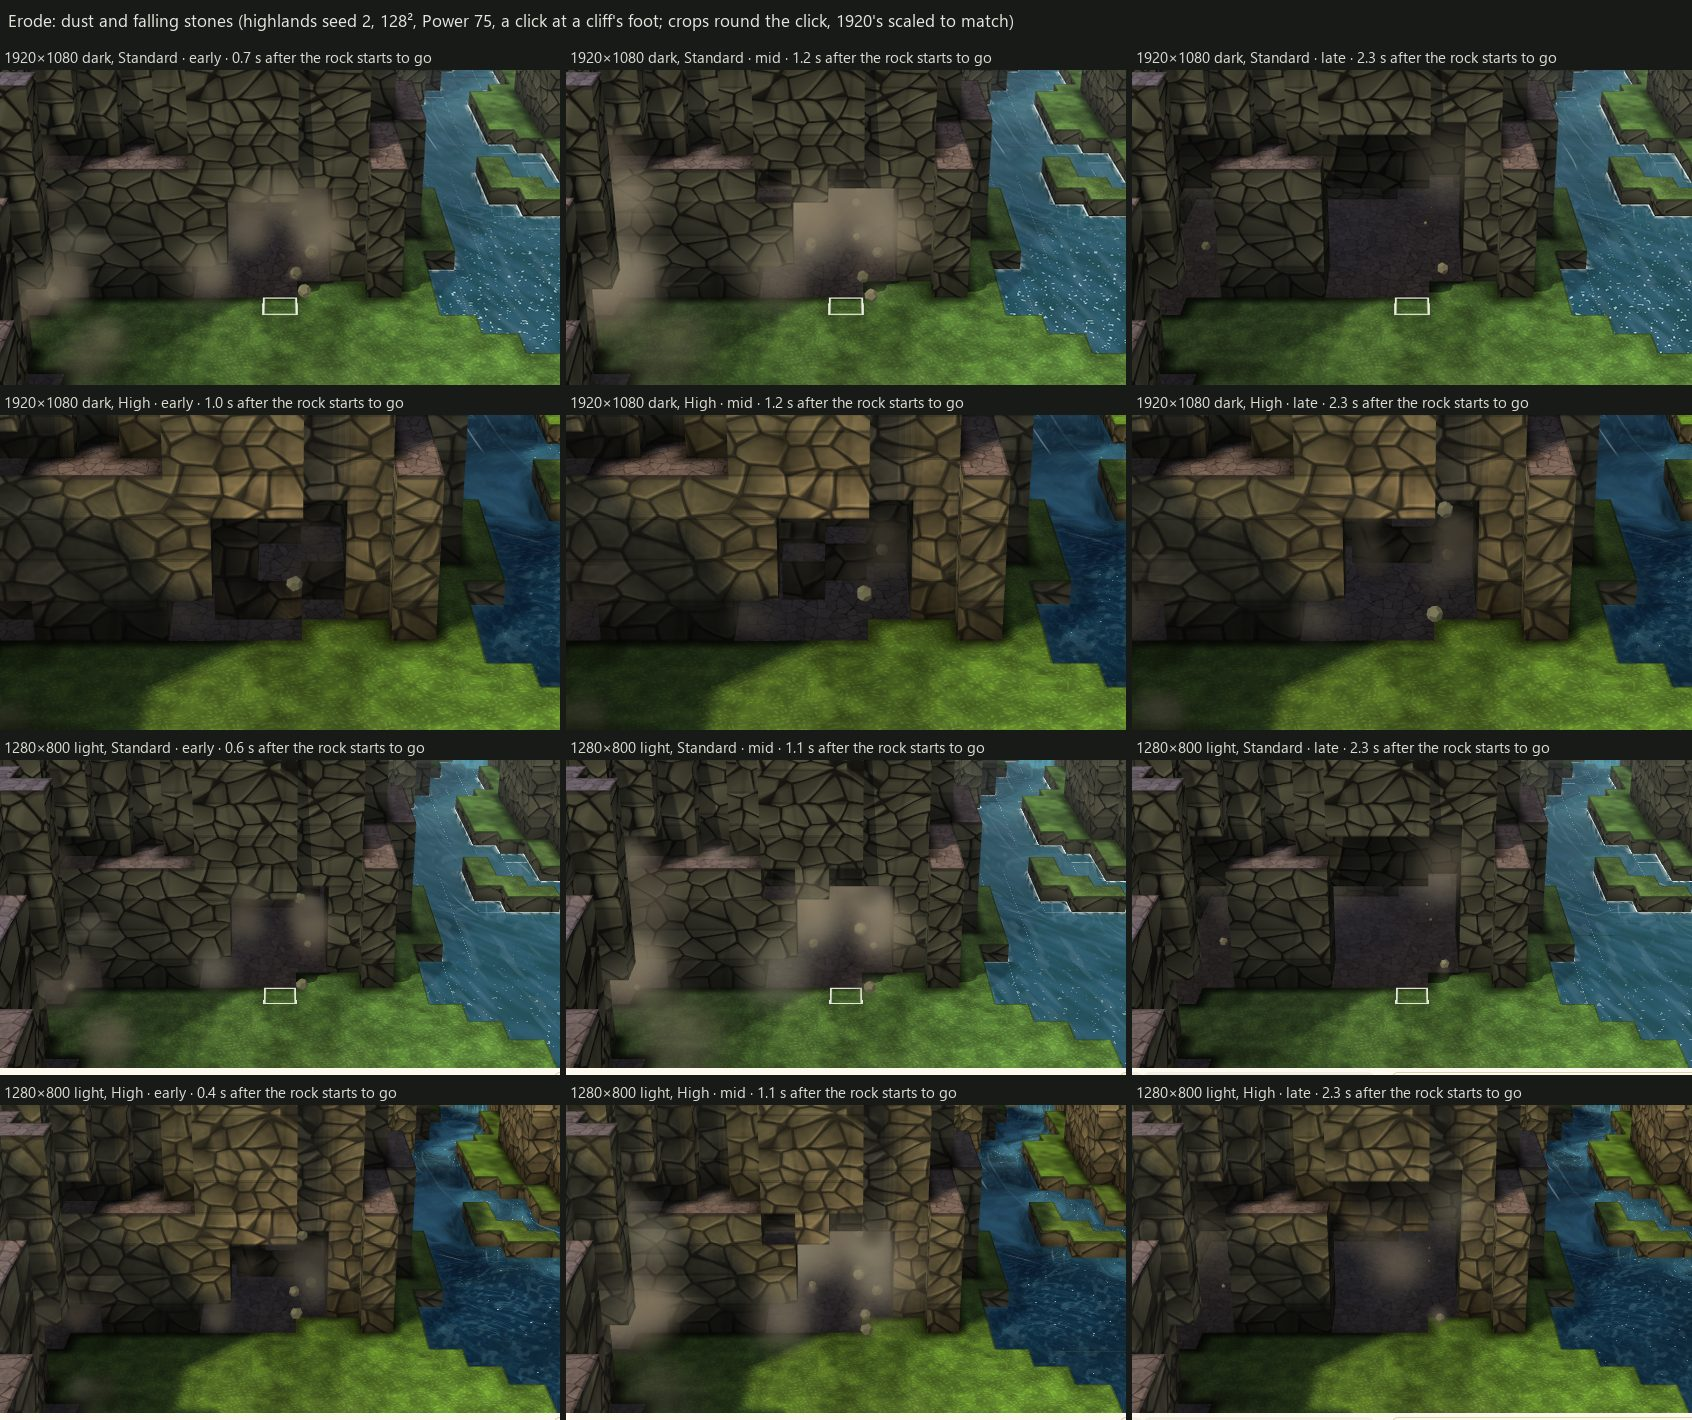
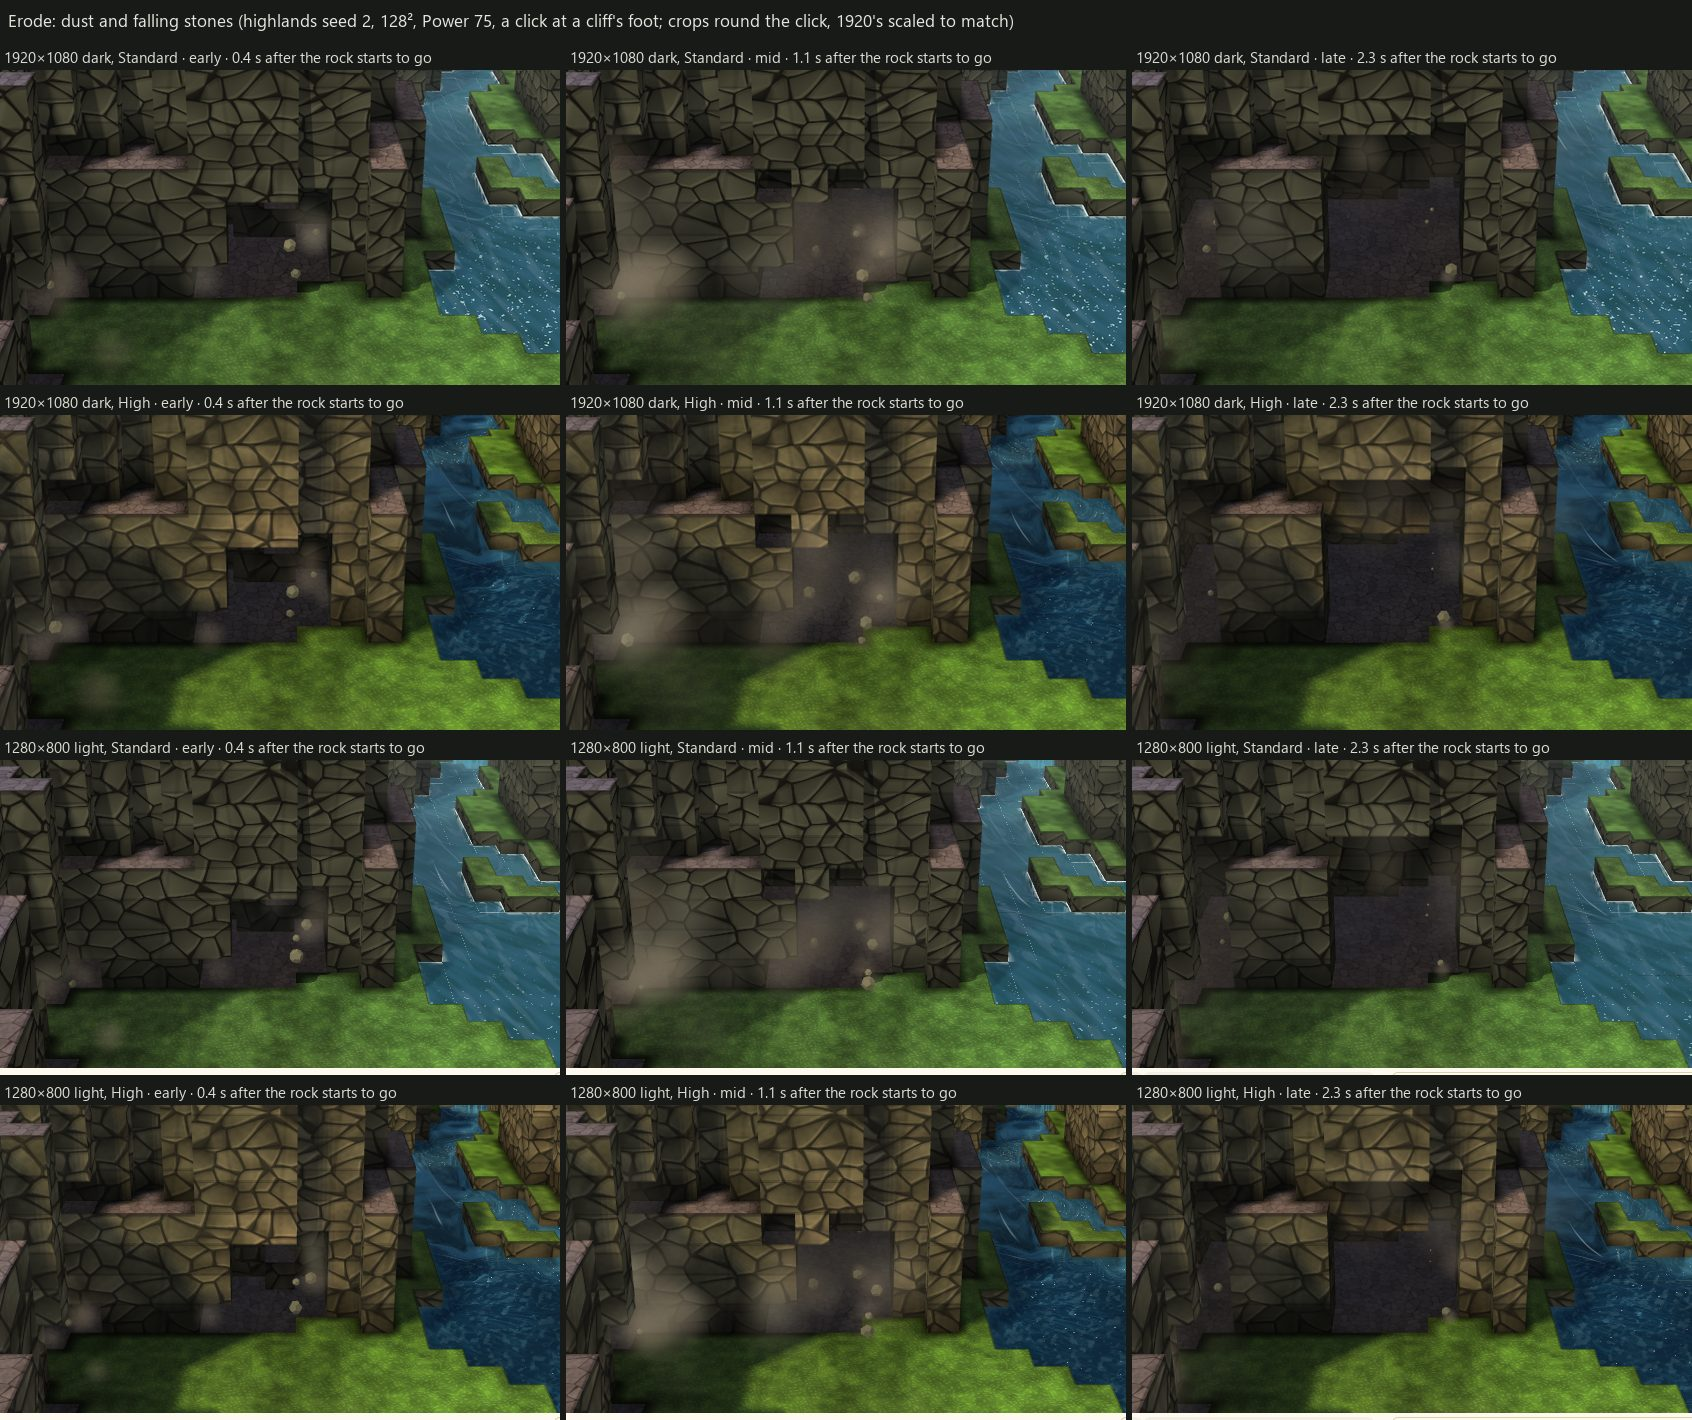
Erode's dust: pushed out past the roof's end; captures again
Dust from under a roof is pushed out fast enough to carry it a little past where the roof
ends (at most five tiles), staying low; deeper dust stays in the cave's shade. Sheet and GIF
regenerated the same way.

diff --git a/src/render3d/forces.ts b/src/render3d/forces.ts
@@ -631,7 +631,9 @@ const WEAR_SAMPLES = 14;
 const DUST_F = 16;
 /** Dust puffs a second at most (the pool's turnover: no stage takes them all, so the last stages get
  *  their share), and a stage's when it has none before it. */
-const DUST_RATE = 150;
+const DUST_RATE = 190;
+/** How far (tiles) dust from under a roof is pushed out at most. */
+const DUST_PUSH = 5;
 const STAGE_MS = 100;
 /** A stone's floats: its origin (x, y, z), its speed across (x, z), up (y) as it breaks off, the height it
  *  rests at, when it lands, how high it bounces, when it is born (ms), its radius, its spin (x, y, z),
@@ -774,7 +776,7 @@ class Wear {
     // the stage's dust: more where more went, within the stage's share of the pool's turnover
     const dt = Math.max(40, Math.min(200, this.lastStage ? now - this.lastStage : STAGE_MS));
     this.lastStage = now;
-    const puffs = Math.max(2, Math.min(Math.round(2 + Math.sqrt(e.went.length) * 0.8), Math.floor((DUST_RATE * dt) / 1000), 2 * n));
+    const puffs = Math.max(2, Math.min(Math.round(3 + Math.sqrt(e.went.length)), Math.floor((DUST_RATE * dt) / 1000), 2 * n));
     // a few stones a stage, more where more went
     const stones = Math.max(1, Math.min(4, Math.round(Math.sqrt(e.went.length) / 4)));
     const every = Math.max(1, Math.floor(n / stones));
@@ -794,9 +796,12 @@ class Wear {
       for (let k = 0; k < many; k++) {
         const q = this.seq++;
         // (out of the opening: from a little way along it, quickly at first, slowing as it spreads)
-        const speed = 1.3 + 1.7 * hash(q);
         const out = (roofed ? 0.8 : 0.4) + 0.6 * hash(q + 0.23);
         const h = Math.hypot(dx, dy);
+        const exit = roofed && h > 0.05 ? Math.max(0, s[o + 8] - out * h) : 0;
+        // (pushed out: under a roof, fast enough to carry it a little past the roof's end, as far as
+        // DUST_PUSH tiles; dust from deeper stays in the cave's shade)
+        const speed = exit > 0 ? (Math.min(DUST_PUSH, exit + 0.6 + 0.9 * hash(q)) * DUST_DRAG) / h : 1.3 + 1.7 * hash(q);
         const jx = (hash(q + 0.31) - 0.5) * 0.7;
         const jy = (hash(q + 0.57) - 0.5) * 0.7;
         this.puff(
@@ -805,7 +810,7 @@ class Wear {
           level - 0.2 + dz * out + hash(q + 0.83) * 0.5,
           -(yRow + dy * out + jy * 0.6),
           dx * speed + jx * 0.6,
-          dz * speed * 0.6 + 0.15,
+          exit > 0 ? 0.15 + 0.3 * hash(q + 0.37) : dz * speed * 0.6 + 0.15,
           -(dy * speed + jy * 0.6),
           1.2 + 0.7 * hash(q + 0.13),
           0.5 + 0.4 * hash(q + 0.71),
@@ -814,7 +819,7 @@ class Wear {
           roofed ? 0.35 : 1,
           0,
           // (open air: out already; under a roof straight up: out as it rises)
-          !roofed ? -1 : h > 0.05 ? s[o + 8] - out * h : 0,
+          !roofed ? -1 : exit,
           h > 0.05 ? speed * h : 1.5,
         );
       }
